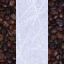
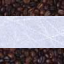
Stones connected to GUI

diff --git a/src/gui/game.cpp b/src/gui/game.cpp
@@ -38,17 +38,17 @@ GameGUI::~GameGUI()
 void GameGUI::setNames()
 {
     // Get from API and check player count
-    ui->player1Name_label->setText(QString::fromStdString(gameLogic.getPlayer(0)->getName()));
-    ui->player2Name_label->setText(QString::fromStdString(gameLogic.getPlayer(1)->getName()));
+    ui->player1Name_label->setText(QString::fromStdString(gameLogic.getPlayerName(0)));
+    ui->player2Name_label->setText(QString::fromStdString(gameLogic.getPlayerName(1)));
     int playersSize = gameLogic.getPlayersCount();
     switch(playersSize)
     {
         case 4:
             ui->player4_label->setEnabled(true);
-            ui->player4Name_label->setText(QString::fromStdString(gameLogic.getPlayer(3)->getName()));
+            ui->player4Name_label->setText(QString::fromStdString(gameLogic.getPlayerName(3)));
         case 3:
             ui->player3_label->setEnabled(true);
-            ui->player3Name_label->setText(QString::fromStdString(gameLogic.getPlayer(2)->getName()));
+            ui->player3Name_label->setText(QString::fromStdString(gameLogic.getPlayerName(2)));
 
     };
 }
@@ -69,30 +69,68 @@ void GameGUI::loadPathImgs()
 
 void GameGUI::drawStones()
 {
-    std::vector<pos> stones;
     int N = gameLogic.labyrinth.getSize();
     int size = 66;
-    int r;
     if(N == 9)
         _view->scale(0.9,0.9);
     else if (N==11)
         _view->scale(0.75,0.75);
     QGraphicsPixmapItem *pm;
-    for(int y=0;y<N;y++)
-        for(int x=0;x<N;x++)
+    Stone stone;
+    int imgX;
+    int imgY;
+    for(int y=1;y<=N;y++)
+        for(int x=1;x<=N;x++)
         {
-            stones.push_back(pos(x,y));
+            stone = gameLogic.labyrinth.get(x,y);
+            qDebug() << stone.type << " " << stone.rotation;
+            pm = scene->addPixmap(_pathImg[stoneToImgIndex(stone)]);
+            imgX = x * size;
+            imgY = y * size;
+            xPos.insert(boost::bimap<int,int>::value_type(imgX,x));
+            yPos.insert(boost::bimap<int,int>::value_type(imgY,y));
+            pm->setPos(imgX,imgY);
         }
-    for(auto stone: stones)
+}
+int GameGUI::stoneToImgIndex(Stone &stone)
+{
+    switch(stone.type)
     {
-        r = qrand() % _pathImg.size();
-        pm = scene->addPixmap(_pathImg[r]);
-        int x = stone.x * size;
-        int y = stone.y * size;
-        xPos.insert(boost::bimap<int,int>::value_type(x,stone.x));
-        yPos.insert(boost::bimap<int,int>::value_type(y,stone.y));
-        pm->setPos(x,y);
+        case I:
+            switch(stone.rotation)
+            {
+                case 0:
+                    return 0;
+                default:
+                    return 1;
+            }
+        case L:
+            switch(stone.rotation)
+            {
+                case 0:
+                    return 5;
+                case 1:
+                    return 2;
+                case 2:
+                    return 3;
+                case 3:
+                    return 4;
+
+            }
+        case T:
+            switch(stone.rotation)
+            {
+                case 0:
+                    return 6;
+                case 1:
+                    return 7;
+                case 2:
+                    return 8;
+                case 3:
+                    return 9;
+            }
     }
+    return 0;
 }
 
 void GameGUI::spawnPlayer()

diff --git a/src/gui/mainwindow.cpp b/src/gui/mainwindow.cpp
@@ -29,9 +29,11 @@ void MainWindow::on_createGameButton_clicked()
         gameLogic.addPlayer(ui->player4Name->text().toStdString());
     int mapSize = ui->sizeBox->currentText().toInt();
     qDebug() << mapSize;
-    gameLogic.initialize(mapSize);
-    hide();
-    GameGUI gameGUI(this,gameLogic);
-    gameGUI.exec();
-    close();
+    if(gameLogic.initialize(mapSize))
+    {
+        hide();
+        GameGUI gameGUI(this,gameLogic);
+        gameGUI.exec();
+        close();
+    }
 }

diff --git a/src/gui/game.h b/src/gui/game.h
@@ -49,6 +49,13 @@ private:
      */
     void loadPathImgs();
 
+    /**
+     * @brief stoneToImgIndex
+     * @param stone
+     * @return correspoindg index to path img vector
+     */
+    int stoneToImgIndex(Stone &stone);
+
     void spawnPlayer();
     void movePlayer(int x, int y);
     const unsigned int playerHeight = 70;
